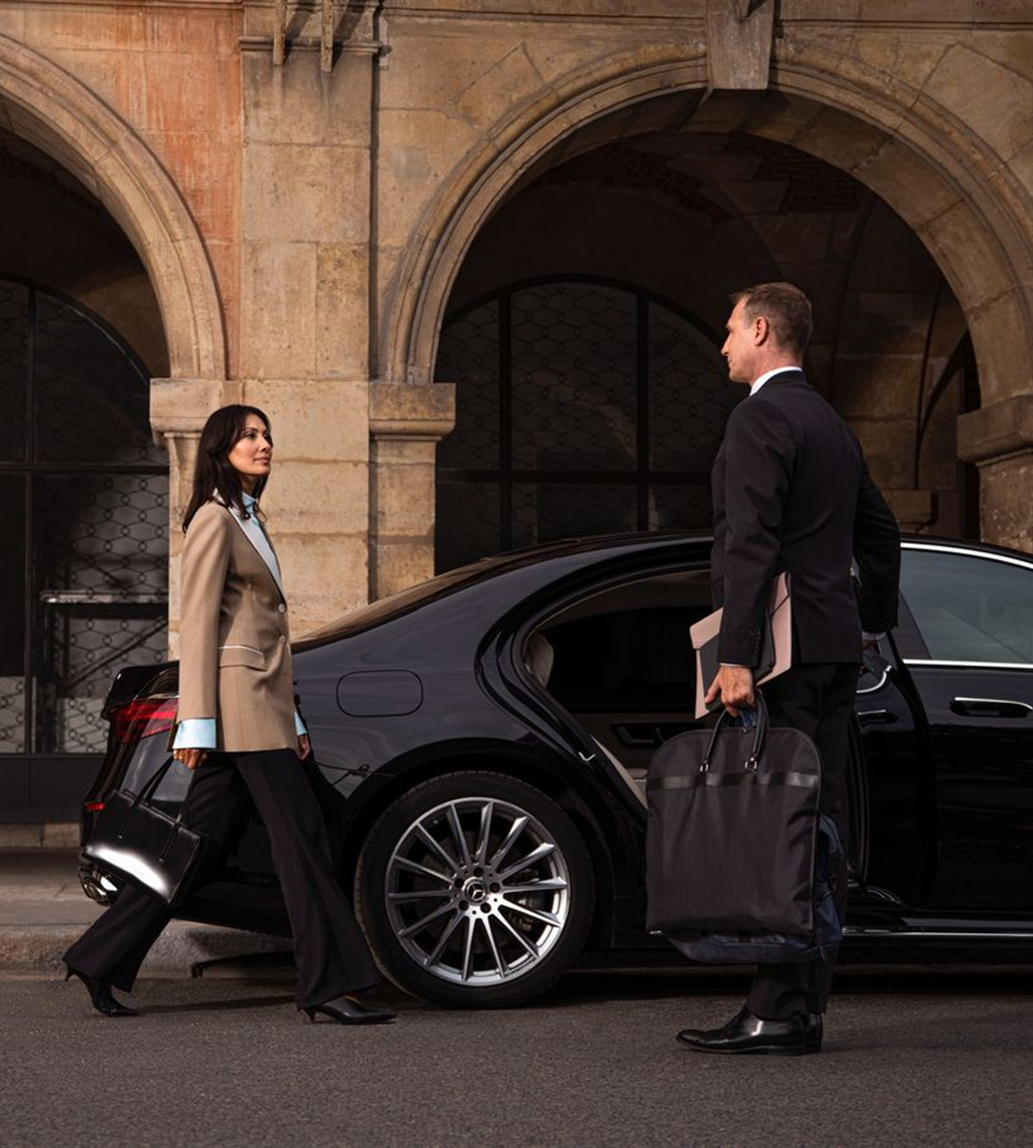
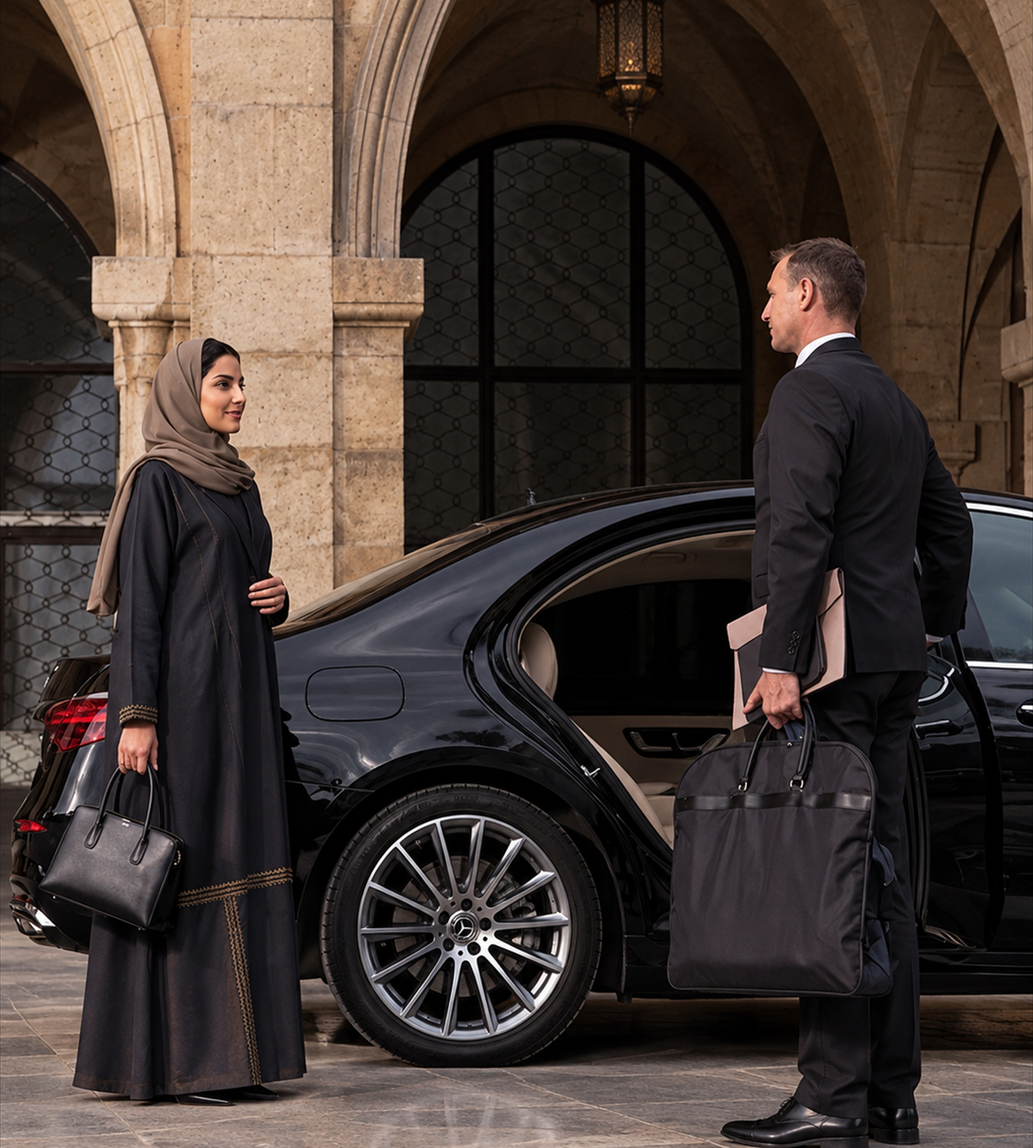
Service cards done

diff --git a/components/HomeHero.tsx b/components/HomeHero.tsx
@@ -32,7 +32,7 @@ function ParallaxCard({
   bookNow,
   isRtl = false,
   objectPosition = 'center',
-  defaultPb = '40%',
+  defaultPb = '50%',
   onBook,
   comingSoon = false,
   comingSoonLabel = 'Coming Soon',
@@ -91,7 +91,7 @@ function ParallaxCard({
         width: 'calc(100% + 3px)',
         height: '100%',
         minHeight: 'calc(100% + 3px)',
-        padding: 13.5,
+        padding: 12,
         display: 'flex',
         flexDirection: 'column',
       }}
@@ -116,7 +116,7 @@ function ParallaxCard({
           {comingSoonLabel}
         </span>
       )}
-      <div className="overflow-hidden rounded-lg mb-3 relative w-full">
+      <div className="overflow-hidden rounded-lg mb-2.5 relative w-full">
         <motion.div
           className="w-full"
           animate={{ paddingBottom: active ? '100%' : defaultPb }}
@@ -130,7 +130,7 @@ function ParallaxCard({
           className="absolute inset-0 w-full h-full object-cover"
           style={{
             objectPosition,
-            transform: `translate(${tilt.imgX}px, ${tilt.imgY}px) scale(1.08)`,
+            transform: `translate(${tilt.imgX}px, ${tilt.imgY}px) scale(1.1)`,
             filter: active ? 'grayscale(0%)' : 'grayscale(100%)',
             transition: active
               ? 'transform 0.08s linear, filter 0.4s ease'
@@ -139,7 +139,7 @@ function ParallaxCard({
         />
       </div>
       <p
-        className="mb-0.5 text-sm font-semibold"
+        className="mb-0.5 text-sm font-semibold leading-tight"
         style={{
           fontFamily: 'Inter, sans-serif',
           color: active ? '#D4FBFF' : '#ffffff',
@@ -149,7 +149,7 @@ function ParallaxCard({
         {title}
       </p>
       <p
-        className="mb-3 text-xs leading-snug"
+        className="mb-2.5 text-xs leading-tight"
         style={{
           fontFamily: 'Inter, sans-serif',
           color: active ? 'rgba(255,255,255,0.82)' : 'rgba(255,255,255,0.50)',
